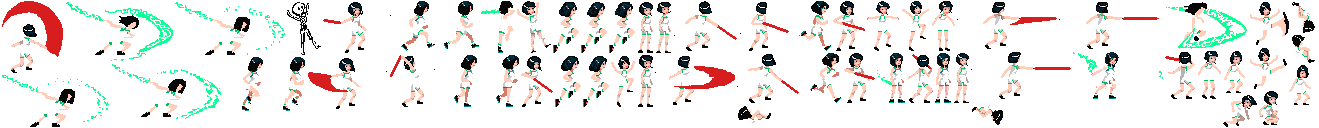
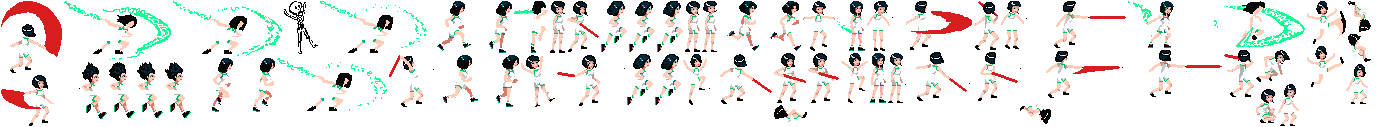
falling

Changed region(s): [[0.0, 0.0, 1.0, 0.9921], [0.5595, 0.8268, 0.5906, 0.9449]]

diff --git a/Src/Frauki.js b/Src/Frauki.js
@@ -18,9 +18,9 @@ Player = function (game, x, y, name) {
     //movements
     this.animations.add('stand', ['Stand0000'], 10, true, false);
     this.animations.add('run', ['Run0000', 'Run0001', 'Run0002', 'Run0003', 'Run0004', 'Run0005', 'Run0006', 'Run0007'], 15, true, false);
-    this.animations.add('jump', ['Jump0001', 'Jump0000', 'Jump0001', 'Jump0002', 'Jump0003', 'Jump0004'], 10, true, false);
+    this.animations.add('jump', ['Jump0000', 'Jump0001', 'Jump0002', 'Jump0003', 'Jump0004'], 10, true, false);
     this.animations.add('peak', ['Standing Jump0002', 'Standing Jump0003', 'Standing Jump0004'], 10, false, false);
-    this.animations.add('fall', ['Standing Jump0005'], 10, true, false);
+    this.animations.add('fall', ['Fall0000', 'Fall0001', 'Fall0002', 'Fall0003'], 10, true, false);
     this.animations.add('land', ['Standing Jump0006', 'Standing Jump0007', 'Standing Jump0008'], 10, false, false);
     this.animations.add('crouch', ['Crouch0000'], 10, true, false);
     this.animations.add('flip', ['Flip0000', 'Flip0001', 'Flip0002', 'Flip0003', 'Flip0004'], 14, false, false);
